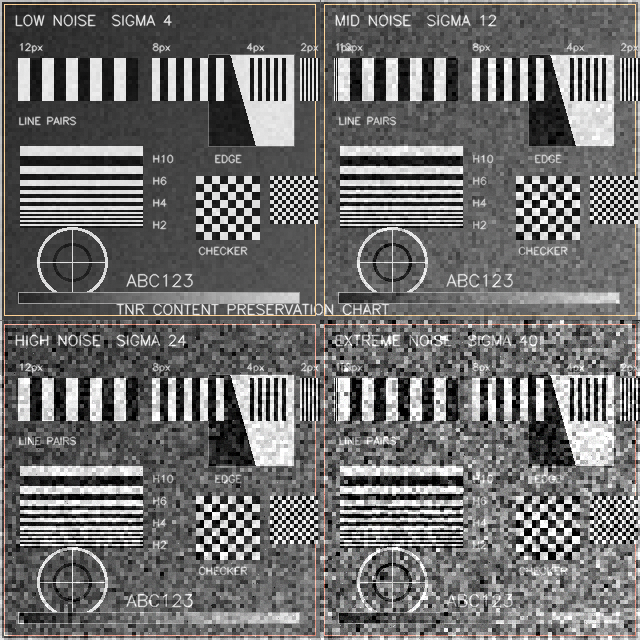
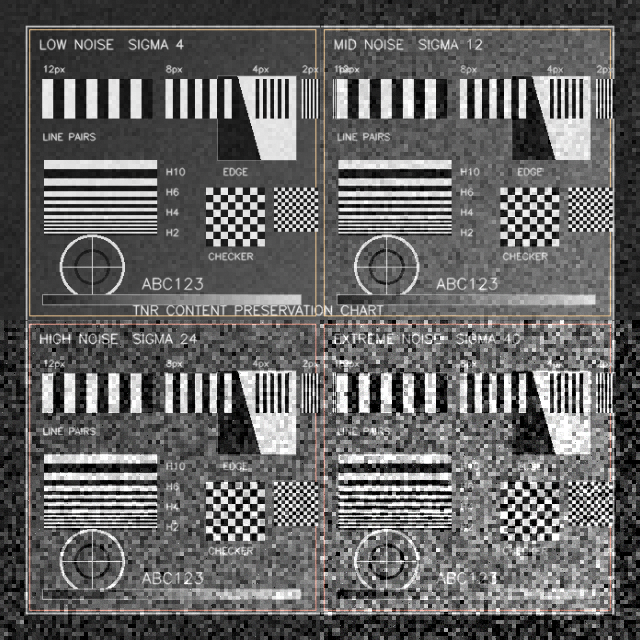
让TNR分辨率卡旋转运动

diff --git a/scripts/generate_tnr_zone_noise_chart.py b/scripts/generate_tnr_zone_noise_chart.py
@@ -14,6 +14,8 @@ W = 640
 H = 640
 FPS = 30
 FRAMES = 120
+ROTATION_DEGREES = 5.0
+ROTATION_SCALE = 0.92
 PAGE_W = 1080
 PAGE_H = 1920
 PANE_X = (PAGE_W - W) // 2
@@ -117,6 +119,18 @@ def clean_frame() -> np.ndarray:
     return img
 
 
+def rotation_angle(frame_idx: int) -> float:
+    return ROTATION_DEGREES * math.sin(2.0 * math.pi * frame_idx / FRAMES)
+
+
+def move_content(clean: np.ndarray, frame_idx: int) -> np.ndarray:
+    angle = rotation_angle(frame_idx)
+    mat = cv2.getRotationMatrix2D((W / 2.0, H / 2.0), angle, ROTATION_SCALE)
+    return cv2.warpAffine(clean, mat, (W, H), flags=cv2.INTER_LINEAR,
+                          borderMode=cv2.BORDER_CONSTANT,
+                          borderValue=(42, 42, 42))
+
+
 def apply_zone_noise(clean: np.ndarray, frame_idx: int) -> np.ndarray:
     noisy = clean.astype(np.float32)
     rng = np.random.default_rng(0x3456 + frame_idx * 977)
@@ -159,14 +173,21 @@ def generate(root: Path, keep_nv12: bool = False) -> None:
     noisy_png = out_dir / "tnr_zone_chart_noisy_reference.png"
     zones_json = out_dir / "tnr_zone_chart_zones.json"
     clean = clean_frame()
-    noisy0 = apply_zone_noise(clean, 0)
-    cv2.imwrite(str(clean_png), clean)
+    clean0 = move_content(clean, 0)
+    noisy0 = apply_zone_noise(clean0, 0)
+    cv2.imwrite(str(clean_png), clean0)
     cv2.imwrite(str(noisy_png), noisy0)
     zones_json.write_text(json.dumps({
         "width": W,
         "height": H,
         "frames": FRAMES,
         "fps": FPS,
+        "motion": {
+            "type": "sinusoidal_rotation",
+            "amplitude_degrees": ROTATION_DEGREES,
+            "scale": ROTATION_SCALE,
+            "period_frames": FRAMES
+        },
         "zones": [
             {"name": n, "sigma": s, "x0": x0, "y0": y0, "x1": x1, "y1": y1}
             for n, s, x0, y0, x1, y1 in ZONES
@@ -181,7 +202,7 @@ def generate(root: Path, keep_nv12: bool = False) -> None:
         with tempfile.NamedTemporaryFile(prefix="tnr_zone_", suffix=".nv12", delete=False) as fp:
             temp_path = Path(fp.name)
             for frame_idx in range(FRAMES):
-                fp.write(bgr_to_nv12(apply_zone_noise(clean, frame_idx)))
+                fp.write(bgr_to_nv12(apply_zone_noise(move_content(clean, frame_idx), frame_idx)))
         cmd = [
             "ffmpeg", "-hide_banner", "-loglevel", "error", "-y",
             "-f", "rawvideo", "-pix_fmt", "nv12", "-s:v", f"{W}x{H}",

diff --git a/src/app/page_registry.c b/src/app/page_registry.c
@@ -105,8 +105,8 @@ static const page_desc_t g_page_descs[] = {
      0,
      PAGE_BIND_NONE},
     {"TNR_CL",
-     "数据流：分区噪声分辨率卡H264 -> VDEC -> VPSS原图/TNR_CL -> VO上下对比。",
-     "展示重点：LOW/MID/HIGH/EXTREME噪声区的时域降噪，同时观察线对、斜边、棋盘格和文字是否被抹掉。",
+     "数据流：旋转分区噪声分辨率卡H264 -> VDEC -> VPSS原图/TNR_CL -> VO上下对比。",
+     "展示重点：LOW/MID/HIGH/EXTREME动态噪声区的时域降噪，同时观察旋转线对、斜边、棋盘格和文字是否拖影。",
      0,
      PAGE_BIND_NONE},
     {"WAVELET_NR_CL",

diff --git a/src/pages/page_tnr_cl.c b/src/pages/page_tnr_cl.c
@@ -1047,7 +1047,7 @@ static void draw_tnr_live_page(uint8_t *dst, int stride, int width, int height,
     page_surface_draw_text(dst, stride, width, height, 60, 58,
                            "TNR CL H264", 9, 235, 108, 176);
     page_surface_draw_text(dst, stride, width, height, 60, 142,
-                           "ZONE NOISE RESOLUTION CHART", 3, 210, 144, 84);
+                           "ROTATING ZONE NOISE CHART", 3, 210, 144, 84);
 
     page_surface_fill_rect_nv12(dst, stride, width, height, TNR_PANE_X - 14, TNR_TOP_Y - 48,
                                 TNR_W + 28, TNR_H + 82, 16, 128, 128);
@@ -1061,7 +1061,7 @@ static void draw_tnr_live_page(uint8_t *dst, int stride, int width, int height,
     if (ctx && ctx->output_ready) draw_nv12_scaled(dst, stride, width, height, TNR_PANE_X, TNR_BOTTOM_Y, TNR_W, TNR_H, ctx->output);
 
     page_surface_draw_text(dst, stride, width, height, 70, 1595,
-                           "FLOW H264 CHART->VDEC->VPSS RAW/TNR->VO PAGE",
+                           "FLOW ROTATING H264 CHART->VDEC->VPSS RAW/TNR->VO",
                            2, 190, 144, 84);
     page_surface_draw_text(dst, stride, width, height, 70, 1660,
                            "NOISE SIGMA 4/12/24/40  TH 12 STATIC 50 MOTION 96",

diff --git a/README.md b/README.md
@@ -117,7 +117,7 @@ cmake --build build -j
 `EIS` 单独模式不占用摄像头，使用 `assets/eis/eis_shaky_640x360.h264` 抖动素材，走 `H264文件 -> VDEC -> VPSS(两路输出) -> RAW/EIS_GPU -> VMIX -> OSD -> VO`；上半屏显示原始 VPSS 分支，下半屏显示 EIS GPU 稳像分支，EIS 内部自计算帧间补偿矩阵，使用 `crop_ratio=0.08`，OSD 显示 OpenCL total/estimate/warp 耗时、fallback 状态和完整链路。该页可配合 `wbc_h264_record` 录制当前屏幕并转成 MP4，用于复看最终 GPU 效果。
 `EIS_VI` 单独模式使用实时摄像头输入，走 `VI 3840x2160 -> EIS -> VPSS 1072x608 -> OSD -> VO`；该页保留 `EIS` 离线素材对比页不变，专门用于验证真实 VI 输入进入电子稳像后的显示链路。屏幕 OSD 叠加标题、真实链路、输入/输出尺寸、EIS total/estimate/warp 耗时和画面标签，日志同步输出 VI/EIS/VPSS/OSD/VO 帧计数。
 `EIS_DETECT_NPU` 单独模式不占用摄像头，使用 `assets/eis/eis_shaky_640x360.h264`，走 `H264文件 -> VDEC -> VPSS(上路原图/下路EIS) -> EIS -> VPSS(显示640x360/模型640x640) -> RGA(NV12转RGB888) -> DETECT_NPU(YOLOv5) -> VMIX -> OSD -> VO`；原视频放在上方，EIS稳像结果放在下方，NPU只作为检测分支输出检测框，避免把640x640模型输入直接显示出来。屏幕叠加 EIS 耗时、VDEC/VPSS/EIS/RGA/NPU/VMIX/OSD/VO 帧计数、检测框、类别和置信度。`--only EIS_NPU` 和 `--only EIS_NPU_DETECT` 是同一页面的别名。
-`TNR_CL` 单独模式不占用摄像头，使用 640x640 分区噪声分辨率卡素材编码为 H264：四个象限分别为 LOW/MID/HIGH/EXTREME 噪声，并包含线对、斜边、棋盘格、文字和灰阶条；分辨率卡内容固定，噪声每帧动态变化，用于观察时域降噪收敛。运行时走 `H264文件 -> VDEC -> VPSS双路 -> 原图/TNR_CL -> VO页面`，屏幕显示输入噪声帧和降噪输出对比；当前单页展示参数为 `threshold=0.12`、`static_alpha=0.50`、`motion_alpha=0.96`。可用 `scripts/generate_tnr_zone_noise_chart.py evaluate-capture <TNR_CL.png>` 对截图做分区评估，或用 `scripts/generate_tnr_zone_noise_chart.py evaluate-recording <TNR_CL.mp4>` 对录制视频做时间维度评估，查看 noisy/output 的时域波动下降和边缘保持情况。
+`TNR_CL` 单独模式不占用摄像头，使用 640x640 分区噪声分辨率卡素材编码为 H264：四个象限分别为 LOW/MID/HIGH/EXTREME 噪声，并包含线对、斜边、棋盘格、文字和灰阶条；分辨率卡内容按 120 帧周期做约 5 度往返旋转，噪声每帧动态变化，用于同时观察运动内容保护和时域降噪收敛。运行时走 `H264文件 -> VDEC -> VPSS双路 -> 原图/TNR_CL -> VO页面`，屏幕显示输入噪声帧和降噪输出对比；当前单页展示参数为 `threshold=0.12`、`static_alpha=0.50`、`motion_alpha=0.96`。可用 `scripts/generate_tnr_zone_noise_chart.py evaluate-recording <TNR_CL.mp4>` 对录制视频做时间维度评估，查看 noisy/output 的时域波动下降和运动边缘保持情况。
 `WAVELET_NR_CL` 单独模式不占用摄像头，复用 `TNR_CL` 的 H264 噪声视频素材，运行时走 `H264文件 -> VDEC -> VPSS双路 -> 原图/WAVELET_NR_CL -> VO页面`，做输入/输出上下等尺寸对比，展示 Y 分量 Haar 小波空间降噪效果；当前单页展示参数为 `levels=1`、`threshold_y=6/255`、`strength=0.65`，页面明确标注这是空间降噪，不做时域融合，因此不会引入拖影。日志输出 VDEC/VPSS/WAVELET_NR_CL 处理闭环、processed 帧数、GPU kernel/queue 耗时，用于和 `TNR_CL` 的时域效果区分。
 `HIGHLIGHT_SUPPRESS` 单独模式不占用摄像头，使用合成 NV12 强反光场景进入 `HIGHLIGHT_SUPPRESS`，做输入/输出上下等尺寸对比，展示 soft-knee 高光压制是否让白色刺眼反光变柔和。
 `HIGHLIGHT_SUPPRESS_VI` 单独模式使用 3840x2160 实时摄像头输入，走 `VI 3840x2160 -> HIGHLIGHT_SUPPRESS -> RESIZE_RGA 1080x608 -> VMIX_RGA -> OSD -> VO`；页面每 1 秒在 `BYPASS` 原图和正常高光压制输出之间自动切换，屏幕显示 low/high/knee/ratio/strength 参数、VI/HIGHLIGHT_SUPPRESS/RESIZE 帧计数、GPU/CPU模块耗时和真实 bind 链路。`--only VI_HIGHLIGHT_SUPPRESS` 是同一页面的别名。